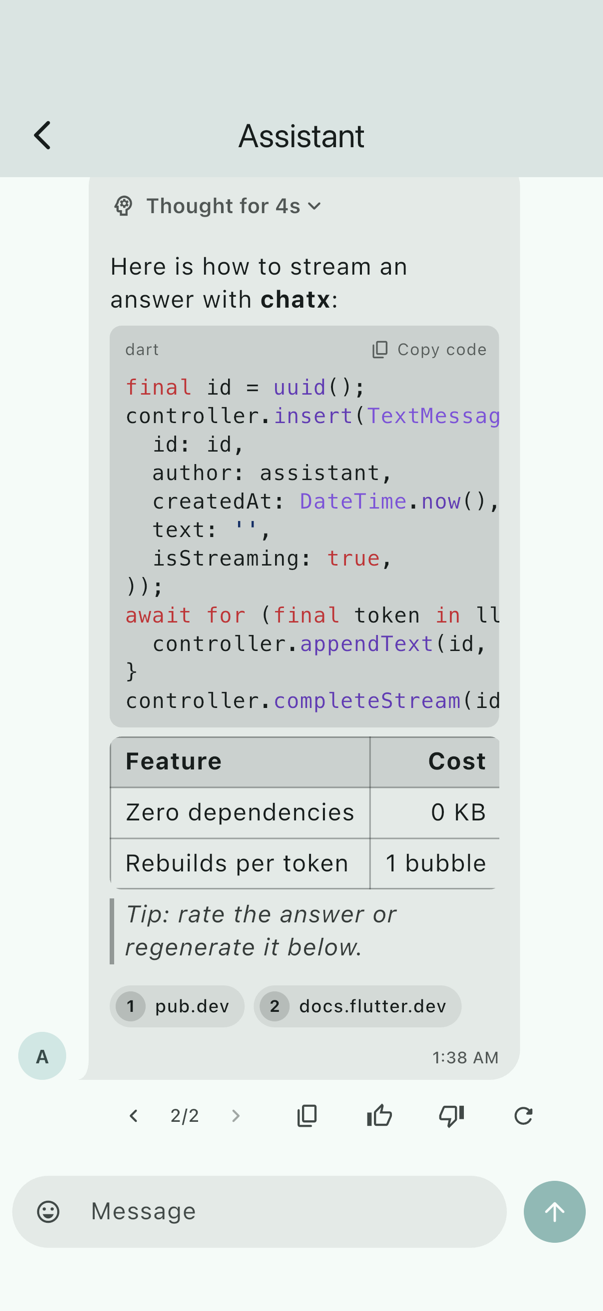
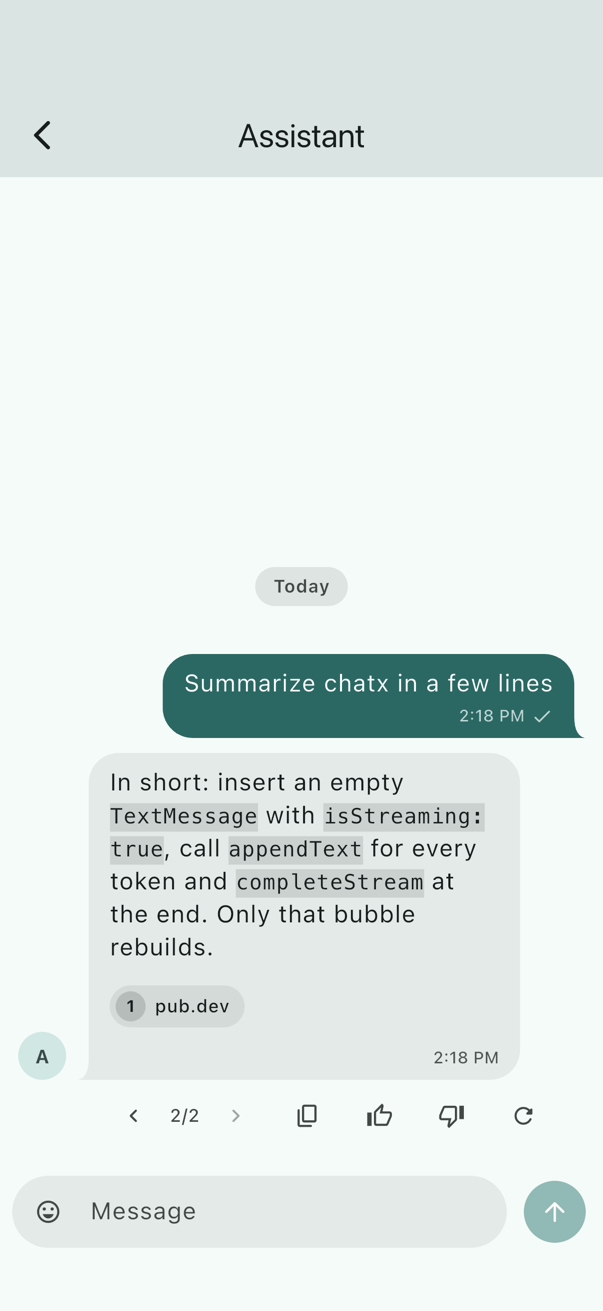
docs: screenshot of an earlier answer version
The demo regenerates a shorter answer with one source, so the two
versions differ. The new 50_ai_previous_version screenshot shows
version 1/2 with its own tool call and sources.

Changed region(s): [[0.1791, 0.1526, 0.9552, 0.7933], [0.6866, 0.7628, 0.806, 0.8238], [0.5075, 0.7628, 0.6567, 0.7933]]

diff --git a/example/lib/pages/ai_streaming_page.dart b/example/lib/pages/ai_streaming_page.dart
@@ -53,6 +53,19 @@ controller.completeStream(id);
     super.dispose();
   }
 
+  // A shorter answer for "Regenerate", so the versions differ.
+  static const _shortAnswer =
+      'In short: insert an empty `TextMessage` with `isStreaming: true`, '
+      'call `appendText` for every token and `completeStream` at the end. '
+      'Only that bubble rebuilds.';
+
+  static const _shortSources = [
+    ChatSource(
+      title: 'Streaming answers',
+      url: 'https://pub.dev/packages/chatx',
+    ),
+  ];
+
   static const _sources = [
     ChatSource(
       title: 'ChatController API',
@@ -139,24 +152,29 @@ controller.completeStream(id);
     _stream(id);
   }
 
-  void _stream(String id) {
+  void _stream(
+    String id, {
+    String text = _answer,
+    List<ChatSource> sources = _sources,
+  }) {
     unawaited(_subscription?.cancel());
-    _subscription = _fakeTokens(_answer).listen(
+    _subscription = _fakeTokens(text).listen(
       (token) => _controller.appendText(id, token),
       onDone: () {
         final message = _controller.messageById(id);
         if (message is TextMessage) {
-          _controller.update(message.copyWith(sources: _sources));
+          _controller.update(message.copyWith(sources: sources));
         }
         _controller.completeStream(id);
       },
     );
   }
 
-  /// Keeps the old answer as a version and streams a new one.
+  /// Keeps the old answer, with its reasoning, tools and sources, as a
+  /// version and streams a new one.
   void _regenerate(TextMessage message) {
     _controller.startRegeneration(message.id);
-    _stream(message.id);
+    _stream(message.id, text: _shortAnswer, sources: _shortSources);
   }
 
   void _stop(TextMessage message) {

diff --git a/example/integration_test/screenshots_test.dart b/example/integration_test/screenshots_test.dart
@@ -126,6 +126,27 @@ void main() {
     // Let the floating date fade out.
     await wait(tester, 2200);
     await shoot('37_ai_versions_sources');
+
+    // The earlier version comes back with its own reasoning, tools and
+    // sources.
+    await tester.tap(
+      find.byWidgetPredicate(
+        (w) =>
+            w.key is ValueKey<String> &&
+            (w.key! as ValueKey<String>)
+                .value
+                .startsWith('chatx_version_previous_'),
+      ),
+    );
+    await settle(tester);
+    expect(find.text('1/2'), findsOneWidget);
+    expect(find.text('Searched the chatx docs'), findsOneWidget);
+    await tester.drag(
+      find.byType(CustomScrollView).first,
+      const Offset(0, -2000),
+    );
+    await wait(tester, 2200);
+    await shoot('50_ai_previous_version');
   });
 
   testWidgets('bubble styles', (tester) async {

diff --git a/README.md b/README.md
@@ -46,7 +46,7 @@ follows your app's theme.
 
 | Suggested prompts | Reasoning while thinking | Versions and sources |
 | :---: | :---: | :---: |
-| <img src="https://raw.githubusercontent.com/jacd007/chatx/main/doc/screenshots/36_ai_prompts.png" width="240" alt="Empty AI chat with suggested prompt cards"> | <img src="https://raw.githubusercontent.com/jacd007/chatx/main/doc/screenshots/35_ai_reasoning.png" width="240" alt="Thinking block streaming the reasoning"> | <img src="https://raw.githubusercontent.com/jacd007/chatx/main/doc/screenshots/37_ai_versions_sources.png" width="240" alt="Answer with source chips and a 2/2 version switcher"> |
+| <img src="https://raw.githubusercontent.com/jacd007/chatx/main/doc/screenshots/36_ai_prompts.png" width="240" alt="Empty AI chat with suggested prompt cards"> | <img src="https://raw.githubusercontent.com/jacd007/chatx/main/doc/screenshots/35_ai_reasoning.png" width="240" alt="Thinking block streaming the reasoning"> | <img src="https://raw.githubusercontent.com/jacd007/chatx/main/doc/screenshots/37_ai_versions_sources.png" width="240" alt="Regenerated answer with its source chip and a 2/2 version switcher"> |
 
 | Video and attachments | Voice transcript | Unread mentions |
 | :---: | :---: | :---: |
@@ -60,9 +60,9 @@ follows your app's theme.
 | :---: | :---: | :---: |
 | <img src="https://raw.githubusercontent.com/jacd007/chatx/main/doc/screenshots/45_gallery.png" width="240" alt="Gallery with media, files and links tabs"> | <img src="https://raw.githubusercontent.com/jacd007/chatx/main/doc/screenshots/46_offline_queue.png" width="240" alt="Offline banner and a queued message"> | <img src="https://raw.githubusercontent.com/jacd007/chatx/main/doc/screenshots/47_products.png" width="240" alt="Product carousel"> |
 
-| Payment request | Hover actions (mouse) | |
+| Payment request | Hover actions (mouse) | Earlier answer version |
 | :---: | :---: | :---: |
-| <img src="https://raw.githubusercontent.com/jacd007/chatx/main/doc/screenshots/48_payment.png" width="240" alt="Payment request with Pay and Decline"> | <img src="https://raw.githubusercontent.com/jacd007/chatx/main/doc/screenshots/49_hover_actions.png" width="240" alt="Reply, react and more buttons shown on hover"> |  |
+| <img src="https://raw.githubusercontent.com/jacd007/chatx/main/doc/screenshots/48_payment.png" width="240" alt="Payment request with Pay and Decline"> | <img src="https://raw.githubusercontent.com/jacd007/chatx/main/doc/screenshots/49_hover_actions.png" width="240" alt="Reply, react and more buttons shown on hover"> | <img src="https://raw.githubusercontent.com/jacd007/chatx/main/doc/screenshots/50_ai_previous_version.png" width="240" alt="Version 1/2 of an answer with its own tool call and sources"> |
 
 ## Features
 
